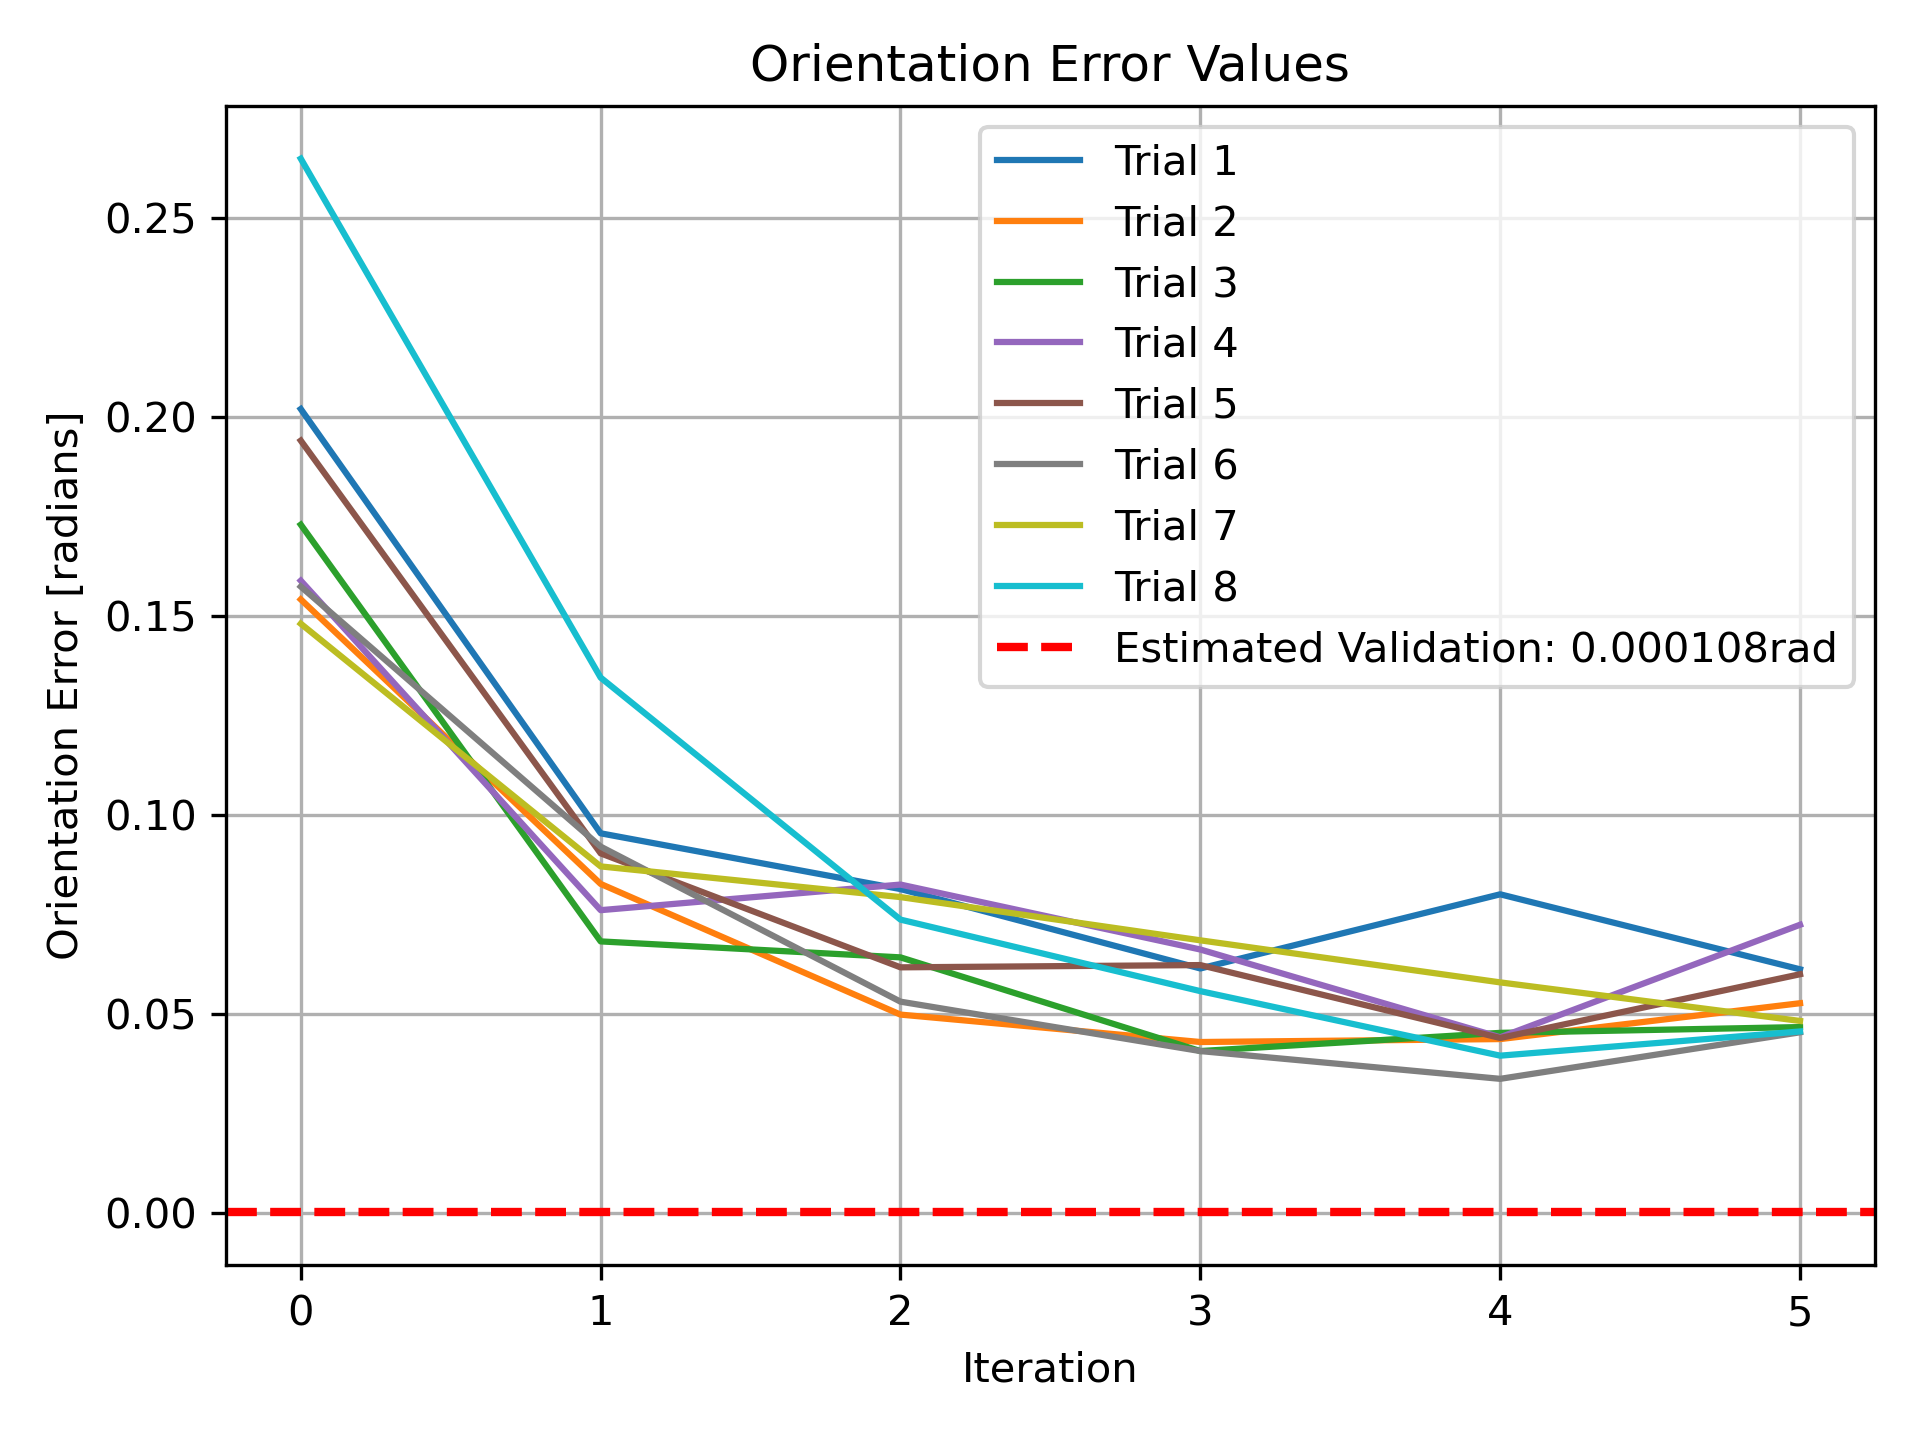
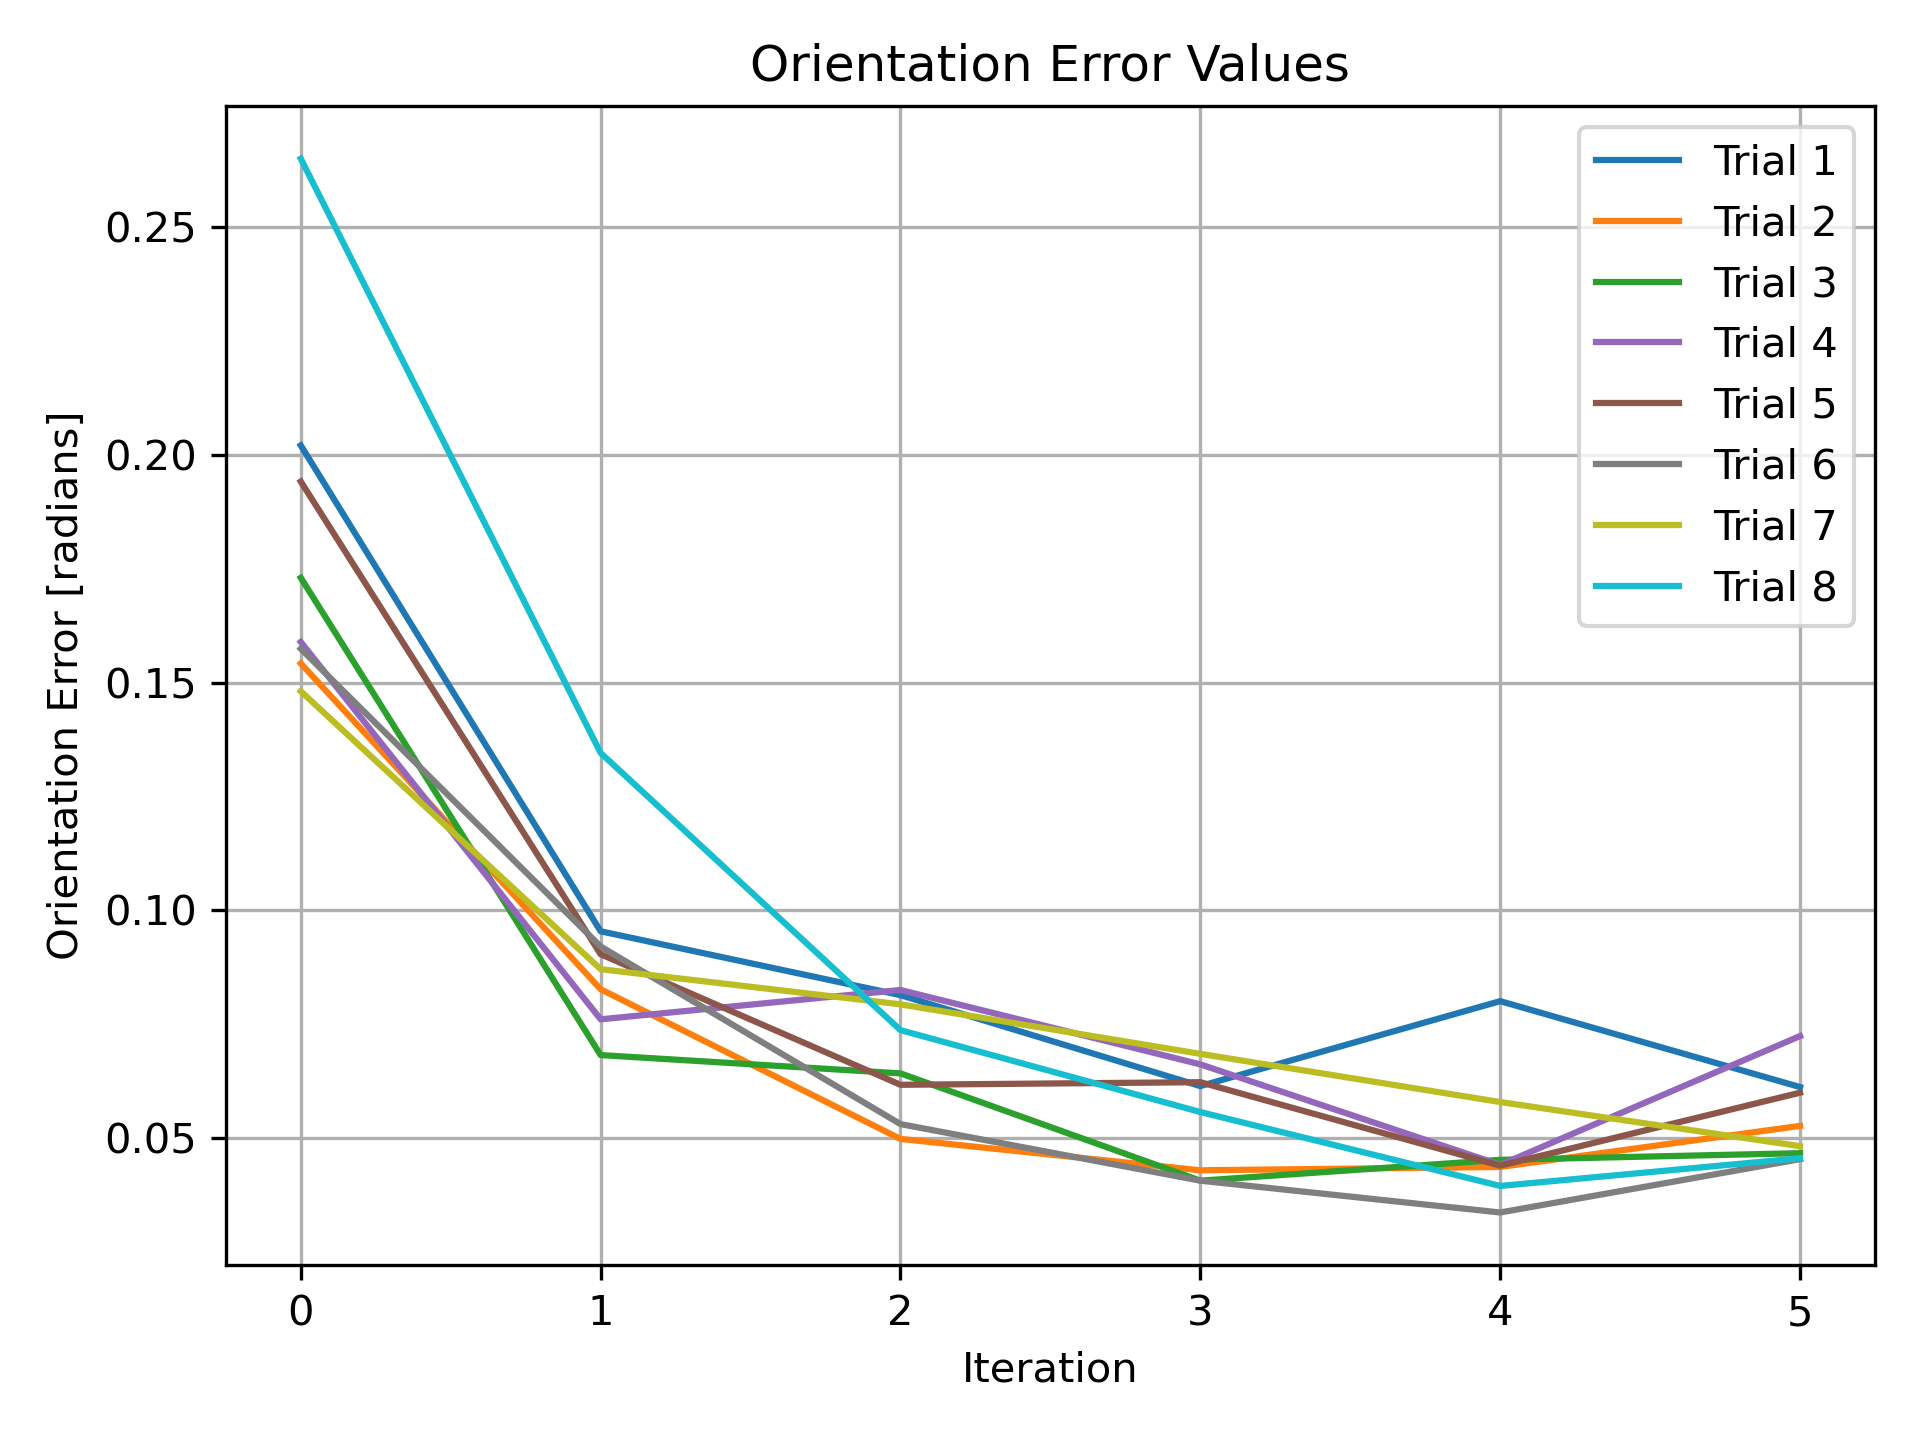
minor changes

diff --git a/miscData/FinalDataCollection/plotCalibrationData.py b/miscData/FinalDataCollection/plotCalibrationData.py
@@ -19,7 +19,7 @@ csv_filenames = [
 ]
 
 # Load dial indicator validation data
-def load_dial_indicator_data(filename='dialIndicatorData.txt'):
+def load_dial_indicator_data(filename='dialIndicatorFinalData.txt'):
     """Load and process dial indicator validation data"""
     try:
         # Read the dial indicator data
@@ -115,7 +115,7 @@ for filename, df in dataframes.items():
         min_vals.append(min_val)
     counter += 1
 
-# Add validation lines if available
+'''# Add validation lines if available
 if validation_pos_error is not None:
     plt.axhline(y=validation_pos_error, color='red', linestyle='--', linewidth=2, 
                 label=f'Dial Indicator Overall: {validation_pos_error:.6f}m')
@@ -124,7 +124,7 @@ if validation_pos_error is not None:
 position_colors = {'backRight': 'orange', 'backLeft': 'purple', 'frontLeft': 'green', 'frontRight': 'brown'}
 for pos, error in position_specific_errors.items():
     plt.axhline(y=error, color=position_colors.get(pos, 'gray'), linestyle=':', linewidth=1.5,
-                label=f'Dial {pos}: {error:.6f}m')
+                label=f'Dial {pos}: {error:.6f}m')'''
 
 plt.yscale('log')
 plt.title('Position Error Values')
@@ -158,7 +158,7 @@ for filename, df in dataframes.items():
     plt.plot(df['Position Error'], label=f'Trial {counter}', color=color)
     counter += 1
 
-# Add validation lines if available
+'''# Add validation lines if available
 if validation_pos_error is not None:
     plt.axhline(y=validation_pos_error, color='red', linestyle='--', linewidth=2, 
                 label=f'Dial Indicator Overall: {validation_pos_error:.6f}m')
@@ -166,7 +166,7 @@ if validation_pos_error is not None:
 # Add position-specific validation lines
 for pos, error in position_specific_errors.items():
     plt.axhline(y=error, color=position_colors.get(pos, 'gray'), linestyle=':', linewidth=1.5,
-                label=f'Dial {pos}: {error:.6f}m')
+                label=f'Dial {pos}: {error:.6f}m')'''
 
 plt.title('Position Error Values')
 plt.xlabel('Iteration')
@@ -193,10 +193,10 @@ for filename, df in dataframes.items():
         min_vals.append(min_val)
     counter += 1
 
-# Add validation line if available
+'''# Add validation line if available
 if validation_orient_error is not None:
     plt.axhline(y=validation_orient_error, color='red', linestyle='--', linewidth=2, 
-                label=f'Estimated Validation: {validation_orient_error:.6f}rad')
+                label=f'Estimated Validation: {validation_orient_error:.6f}rad')'''
 
 plt.yscale('log')
 plt.title('Orientation Error Values')
@@ -230,10 +230,10 @@ for filename, df in dataframes.items():
     plt.plot(df['Orientation Error'], label=f'Trial {counter}', color=color)
     counter += 1
 
-# Add validation line if available
+'''# Add validation line if available
 if validation_orient_error is not None:
     plt.axhline(y=validation_orient_error, color='red', linestyle='--', linewidth=2, 
-                label=f'Estimated Validation: {validation_orient_error:.6f}rad')
+                label=f'Estimated Validation: {validation_orient_error:.6f}rad')'''
 
 plt.title('Orientation Error Values')
 plt.xlabel('Iteration')
@@ -242,8 +242,6 @@ plt.legend()
 plt.grid(True)
 plt.tight_layout()
 plt.savefig(f"{base_name}_orientation_error_linear.png", dpi=300)
-
-# ...existing code...
 
 # Plot estimated target pose values (difference from final value)
 plt.figure()
@@ -282,4 +280,80 @@ plt.grid(True)
 plt.tight_layout()
 plt.savefig(f"{base_name}_calib_params.png", dpi=300)
 
+
+plt.figure(figsize=(10, 6))
+
+# Collect the three datasets
+box_data = []
+box_labels = []
+
+# 1. Initial position errors from calibration files
+initial_errors = []
+for filename, df in dataframes.items():
+    if 'Position Error' in df.columns and len(df) > 0:
+        initial_errors.append(df['Position Error'].iloc[0])
+
+if initial_errors:
+    box_data.append(initial_errors)
+    box_labels.append('Initial Position\nErrors')
+    # Print statistics
+    print(f"\nInitial Position Errors Statistics:")
+    print(f"  Mean: {np.mean(initial_errors):.6f} m")
+    print(f"  Std:  {np.std(initial_errors):.6f} m")
+
+# 2. Final position errors from calibration files  
+final_errors = []
+for filename, df in dataframes.items():
+    if 'Position Error' in df.columns and len(df) > 0:
+        final_errors.append(df['Position Error'].iloc[-1])
+
+if final_errors:
+    box_data.append(final_errors)
+    box_labels.append('Final Position\nErrors')
+    # Print statistics
+    print(f"\nFinal Position Errors Statistics:")
+    print(f"  Mean: {np.mean(final_errors):.6f} m")
+    print(f"  Std:  {np.std(final_errors):.6f} m")
+
+# 3. Dial indicator validation data
+if validation_pos_error is not None:
+    # Use the individual position errors from each corner
+    dial_errors = list(position_specific_errors.values())
+    if dial_errors:
+        box_data.append(dial_errors)
+        box_labels.append('Dial Indicator\nValidation')
+        # Print statistics
+        print(f"\nDial Indicator Validation Statistics:")
+        print(f"  Mean: {np.mean(dial_errors):.6f} m")
+        print(f"  Std:  {np.std(dial_errors):.6f} m")
+
+# Create the box plot
+if len(box_data) == 3:
+    plt.boxplot(box_data, labels=box_labels)
+    plt.yscale('log')
+    plt.title('Position Error Comparison')
+    plt.ylabel('Position Error [meters]')
+    plt.grid(True, which='both', axis='y', alpha=0.3)
+    
+    # Add more detailed y-axis labels
+    ax = plt.gca()
+    ax.yaxis.set_major_locator(LogLocator(base=10.0, numticks=12))
+    ax.yaxis.set_minor_locator(LogLocator(base=10.0, subs=[2, 3, 4, 5, 6, 7, 8, 9], numticks=100))
+    ax.yaxis.set_major_formatter(FormatStrFormatter('%.1e'))
+    ax.yaxis.set_minor_formatter(FormatStrFormatter('%.0e'))  # Changed from '' to '%.0e'
+    ax.tick_params(axis='y', which='major', labelsize=10)
+    ax.tick_params(axis='y', which='minor', length=4, labelsize=8)  # Added labelsize for minor ticks
+    
+    plt.tight_layout()
+    plt.savefig(f"{base_name}_simple_boxplot.png", dpi=300)
+
+# Print improvement statistics if we have both initial and final data
+if initial_errors and final_errors:
+    improvement_factor = np.mean(initial_errors) / np.mean(final_errors)
+    print(f"\nCalibration Improvement:")
+    print(f"  Mean error reduction factor: {improvement_factor:.2f}x")
+    print(f"  Mean error reduction: {(1 - 1/improvement_factor)*100:.1f}%")
+
 plt.show()
+
+
